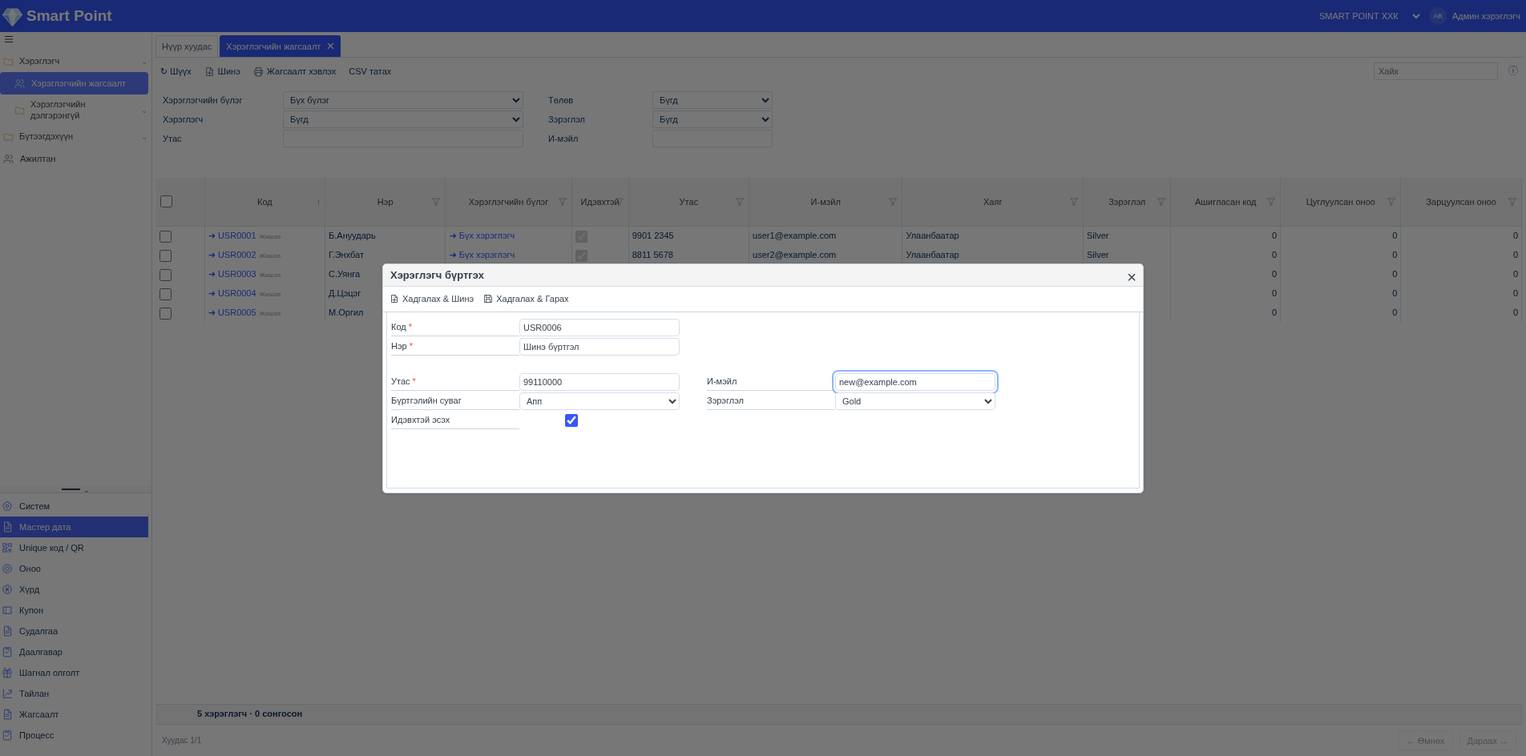
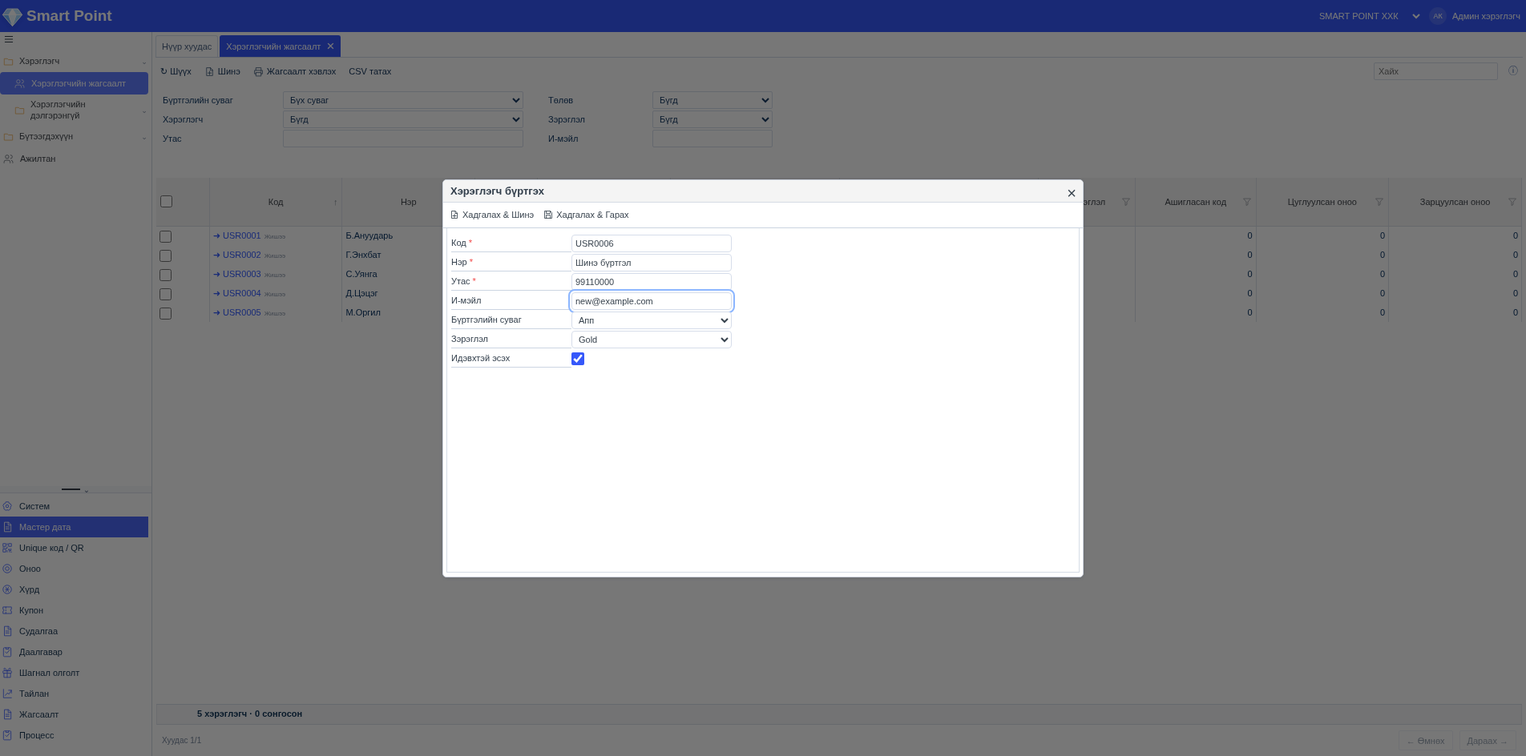
Align user registration fields and remove groups from user list

diff --git a/assets/user-grid.js b/assets/user-grid.js
@@ -1,10 +1,10 @@
 'use strict';
 let userGridPage=1,userGridSort='code',userGridAscending=true;const selectedUserPhones=new Set();
 function userGridRecords(){return db.users.map((u,i)=>{const meta=db.userProfiles?.[u[1]]||{},code=meta.code||'USR'+String(i+1).padStart(4,'0'),transactions=db.transactions.filter(t=>t.userPhone===u[1]||(t.code&&db.codes.some(c=>c.code===t.code&&c.userPhone===u[1])));return {...meta,code,name:u[0],phone:u[1],group:meta.group||'Бүх хэрэглэгч',channel:meta.channel||'Заагаагүй',level:meta.level||'Silver',active:meta.active!==false,email:meta.email??'user'+(i+1)+'@example.com',address:meta.address??'Улаанбаатар',isSample:meta.isSample!==false,used:db.codes.filter(c=>c.used&&c.userPhone===u[1]).length,earned:transactions.filter(t=>t.amount>0).reduce((n,t)=>n+t.amount,0),spent:Math.max(0,-transactions.filter(t=>t.amount<0).reduce((n,t)=>n+t.amount,0))}})}
-function filteredGridUsers(){const term=$('userGridSearch').value.toLowerCase(),group=$('userGridGroup').value,user=$('userGridPerson').value,level=$('userGridLevel').value,state=$('userGridState').value,phone=$('userGridPhone').value.trim(),email=$('userGridEmail').value.trim().toLowerCase();return userGridRecords().filter(u=>(u.code+' '+u.name+' '+u.phone+' '+u.email+' '+u.address).toLowerCase().includes(term)&&(!phone||u.phone.replace(/\s/g,'').includes(phone.replace(/\s/g,'')))&&(!email||u.email.toLowerCase().includes(email))&&(!group||u.group===group)&&(!user||u.phone===user)&&(!level||u.level===level)&&(!state||(state==='active'?u.active:!u.active))).sort((a,b)=>{const x=a[userGridSort],y=b[userGridSort],value=typeof x==='number'?x-y:String(x).localeCompare(String(y),'mn');return userGridAscending?value:-value})}
-function users(){const records=userGridRecords();return `<section id="userGridWorkspace"><div class="user-grid-toolbar"><button id="refreshUserGrid">↻ Шүүх</button><button id="newGridUser">${lineIcon('filePlus')} Шинэ</button><button id="printUserGrid">${lineIcon('printer')} Жагсаалт хэвлэх</button><button id="exportUserGrid">CSV татах</button><input id="userGridSearch" aria-label="Хэрэглэгч хайх" placeholder="Хайх"><button id="userGridInfo" aria-label="Жагсаалтын мэдээлэл">ⓘ</button></div><div class="user-grid-filters"><label>Хэрэглэгчийн бүлэг<select id="userGridGroup"><option value="">Бүх бүлэг</option>${[...new Set(records.map(u=>u.group))].map(g=>`<option>${esc(g)}</option>`).join('')}</select></label><label>Төлөв<select id="userGridState"><option value="">Бүгд</option><option value="active">Идэвхтэй</option><option value="inactive">Идэвхгүй</option></select></label><label>Хэрэглэгч<select id="userGridPerson"><option value="">Бүгд</option>${records.map(u=>`<option value="${esc(u.phone)}">${esc(u.code)} · ${esc(u.name)}</option>`).join('')}</select></label><label>Зэрэглэл<select id="userGridLevel"><option value="">Бүгд</option><option>Bronze</option><option>Silver</option><option>Gold</option></select></label><label>Утас<input id="userGridPhone" aria-label="Утсаар шүүх"></label><label>И-мэйл<input id="userGridEmail" aria-label="И-мэйлээр шүүх"></label></div><div id="userGridRows" class="user-dense-grid"></div><div id="userGridCount" class="user-grid-count"></div><div id="userGridPager" class="log-pager"></div><p class="log-note">Анхны профайлын и-мэйл/хаяг нь жишээ мэдээлэл. Орлого-зарлага нь бүртгэлтэй гүйлгээний нийлбэр; бодит wallet үлдэгдэл биш. Мессеж/и-мэйл илгээхгүй.</p><div id="userGridPrint"></div></section>`}
-function renderUserGrid(){const rows=filteredGridUsers();userGridPage=Math.min(userGridPage,Math.max(1,Math.ceil(rows.length/25)));const headers=[['code','Код'],['name','Нэр'],['group','Хэрэглэгчийн бүлэг'],['active','Идэвхтэй'],['phone','Утас'],['email','И-мэйл'],['address','Хаяг'],['level','Зэрэглэл'],['used','Ашигласан код'],['earned','Цуглуулсан оноо'],['spent','Зарцуулсан оноо']];$('userGridRows').innerHTML='<table><thead><tr><th><input type="checkbox" id="userGridAll" aria-label="Бүх шүүсэн хэрэглэгчийг сонгох"></th>'+headers.map(([key,title])=>`<th><button data-user-sort="${key}">${title} <span>${userGridSort===key?(userGridAscending?'↑':'↓'):lineIcon('filter')}</span></button></th>`).join('')+'</tr></thead><tbody>'+rows.slice((userGridPage-1)*25,userGridPage*25).map((u,i)=>`<tr class="${selectedUserPhones.has(u.phone)?'selected-user-row':''}"><td><input type="checkbox" data-user-select="${esc(u.phone)}" aria-label="${esc(u.name)} сонгох" ${selectedUserPhones.has(u.phone)?'checked':''}></td><td><button class="user-code-link" data-user-detail="${esc(u.phone)}">➜ ${esc(u.code)}</button>${u.isSample?'<small class="sample-tag">Жишээ</small>':''}</td><td>${esc(u.name)}</td><td><button class="user-group-link" data-user-group="${esc(u.group)}">➜ ${esc(u.group)}</button></td><td><input type="checkbox" disabled aria-label="Идэвхтэй" ${u.active?'checked':''}></td><td>${esc(u.phone)}</td><td title="${esc(u.email)}">${esc(u.email)}</td><td title="${esc(u.address)}">${esc(u.address)}</td><td>${esc(u.level)}</td><td class="numeric">${u.used}</td><td class="numeric">${fmt(u.earned)}</td><td class="numeric">${fmt(u.spent)}</td></tr>`).join('')+(rows.length?'':'<tr><td colspan="12" class="empty">Хэрэглэгч олдсонгүй</td></tr>')+'</tbody></table>';$('userGridCount').textContent=rows.length+' хэрэглэгч · '+rows.filter(u=>selectedUserPhones.has(u.phone)).length+' сонгосон';$('userGridPager').innerHTML=`<span>Хуудас ${userGridPage}/${Math.max(1,Math.ceil(rows.length/25))}</span><button id="userGridPrev" ${userGridPage===1?'disabled':''}>← Өмнөх</button><button id="userGridNext" ${userGridPage*25>=rows.length?'disabled':''}>Дараах →</button>`;$('userGridPrev').onclick=()=>{userGridPage--;renderUserGrid()};$('userGridNext').onclick=()=>{userGridPage++;renderUserGrid()};document.querySelectorAll('[data-user-sort]').forEach(b=>b.onclick=()=>{userGridAscending=userGridSort===b.dataset.userSort?!userGridAscending:true;userGridSort=b.dataset.userSort;renderUserGrid()});document.querySelectorAll('[data-user-select]').forEach(input=>input.onchange=()=>{input.checked?selectedUserPhones.add(input.dataset.userSelect):selectedUserPhones.delete(input.dataset.userSelect);renderUserGrid()});$('userGridAll').checked=!!rows.length&&rows.every(u=>selectedUserPhones.has(u.phone));$('userGridAll').indeterminate=rows.some(u=>selectedUserPhones.has(u.phone))&&!rows.every(u=>selectedUserPhones.has(u.phone));$('userGridAll').onchange=e=>{rows.forEach(u=>e.target.checked?selectedUserPhones.add(u.phone):selectedUserPhones.delete(u.phone));renderUserGrid()};document.querySelectorAll('[data-user-group]').forEach(button=>button.onclick=()=>{$('userGridGroup').value=button.dataset.userGroup;renderUserGrid()});document.querySelectorAll('[data-user-detail]').forEach(b=>b.onclick=()=>openGridUser(b.dataset.userDetail))}
-function openGridUser(phone){const u=userGridRecords().find(u=>u.phone===phone),entries=db.transactions.filter(t=>t.userPhone===phone||(t.code&&db.codes.some(c=>c.code===t.code&&c.userPhone===phone)));modal('Хэрэглэгчийн мэдээлэл',`<dl class="detail-specs">${[['Код',u.code],['Нэр',u.name],['Бүлэг',u.group],['Утас',u.phone],['И-мэйл',u.email],['Бүртгэлийн суваг',u.channel],['Хаяг',u.address],['Зэрэглэл',u.level],['Төлөв',u.active?'Идэвхтэй':'Идэвхгүй'],['Цуглуулсан оноо',fmt(u.earned)],['Зарцуулсан оноо',fmt(u.spent)]].map(([k,v])=>`<div><dt>${k}</dt><dd>${esc(v)}</dd></div>`).join('')}</dl><button id="editGridUser">Мэдээлэл засах</button><h3 class="form-section-title">Сүүлийн онооны үйлдлүүд</h3>${table(['Огноо','Үйлдэл','Оноо'],entries.slice(0,15).map(t=>tr([esc(t.date),esc(t.title),fmt(t.amount)])))}`);$('editGridUser').onclick=()=>{$('dialog').close();openGridUserForm(u)}}
+function filteredGridUsers(){const term=$('userGridSearch').value.toLowerCase(),channel=$('userGridChannel').value,user=$('userGridPerson').value,level=$('userGridLevel').value,state=$('userGridState').value,phone=$('userGridPhone').value.trim(),email=$('userGridEmail').value.trim().toLowerCase();return userGridRecords().filter(u=>(u.code+' '+u.name+' '+u.phone+' '+u.email+' '+u.address).toLowerCase().includes(term)&&(!phone||u.phone.replace(/\s/g,'').includes(phone.replace(/\s/g,'')))&&(!email||u.email.toLowerCase().includes(email))&&(!channel||u.channel===channel)&&(!user||u.phone===user)&&(!level||u.level===level)&&(!state||(state==='active'?u.active:!u.active))).sort((a,b)=>{const x=a[userGridSort],y=b[userGridSort],value=typeof x==='number'?x-y:String(x).localeCompare(String(y),'mn');return userGridAscending?value:-value})}
+function users(){const records=userGridRecords();return `<section id="userGridWorkspace"><div class="user-grid-toolbar"><button id="refreshUserGrid">↻ Шүүх</button><button id="newGridUser">${lineIcon('filePlus')} Шинэ</button><button id="printUserGrid">${lineIcon('printer')} Жагсаалт хэвлэх</button><button id="exportUserGrid">CSV татах</button><input id="userGridSearch" aria-label="Хэрэглэгч хайх" placeholder="Хайх"><button id="userGridInfo" aria-label="Жагсаалтын мэдээлэл">ⓘ</button></div><div class="user-grid-filters"><label>Бүртгэлийн суваг<select id="userGridChannel"><option value="">Бүх суваг</option>${[...new Set(records.map(u=>u.channel))].map(c=>`<option>${esc(c)}</option>`).join('')}</select></label><label>Төлөв<select id="userGridState"><option value="">Бүгд</option><option value="active">Идэвхтэй</option><option value="inactive">Идэвхгүй</option></select></label><label>Хэрэглэгч<select id="userGridPerson"><option value="">Бүгд</option>${records.map(u=>`<option value="${esc(u.phone)}">${esc(u.code)} · ${esc(u.name)}</option>`).join('')}</select></label><label>Зэрэглэл<select id="userGridLevel"><option value="">Бүгд</option><option>Bronze</option><option>Silver</option><option>Gold</option></select></label><label>Утас<input id="userGridPhone" aria-label="Утсаар шүүх"></label><label>И-мэйл<input id="userGridEmail" aria-label="И-мэйлээр шүүх"></label></div><div id="userGridRows" class="user-dense-grid"></div><div id="userGridCount" class="user-grid-count"></div><div id="userGridPager" class="log-pager"></div><p class="log-note">Анхны профайлын и-мэйл/хаяг нь жишээ мэдээлэл. Орлого-зарлага нь бүртгэлтэй гүйлгээний нийлбэр; бодит wallet үлдэгдэл биш. Мессеж/и-мэйл илгээхгүй.</p><div id="userGridPrint"></div></section>`}
+function renderUserGrid(){const rows=filteredGridUsers();userGridPage=Math.min(userGridPage,Math.max(1,Math.ceil(rows.length/25)));const headers=[['code','Код'],['name','Нэр'],['active','Идэвхтэй'],['phone','Утас'],['email','И-мэйл'],['address','Хаяг'],['level','Зэрэглэл'],['used','Ашигласан код'],['earned','Цуглуулсан оноо'],['spent','Зарцуулсан оноо']];$('userGridRows').innerHTML='<table><thead><tr><th><input type="checkbox" id="userGridAll" aria-label="Бүх шүүсэн хэрэглэгчийг сонгох"></th>'+headers.map(([key,title])=>`<th><button data-user-sort="${key}">${title} <span>${userGridSort===key?(userGridAscending?'↑':'↓'):lineIcon('filter')}</span></button></th>`).join('')+'</tr></thead><tbody>'+rows.slice((userGridPage-1)*25,userGridPage*25).map((u,i)=>`<tr class="${selectedUserPhones.has(u.phone)?'selected-user-row':''}"><td><input type="checkbox" data-user-select="${esc(u.phone)}" aria-label="${esc(u.name)} сонгох" ${selectedUserPhones.has(u.phone)?'checked':''}></td><td><button class="user-code-link" data-user-detail="${esc(u.phone)}">➜ ${esc(u.code)}</button>${u.isSample?'<small class="sample-tag">Жишээ</small>':''}</td><td>${esc(u.name)}</td><td><input type="checkbox" disabled aria-label="Идэвхтэй" ${u.active?'checked':''}></td><td>${esc(u.phone)}</td><td title="${esc(u.email)}">${esc(u.email)}</td><td title="${esc(u.address)}">${esc(u.address)}</td><td>${esc(u.level)}</td><td class="numeric">${u.used}</td><td class="numeric">${fmt(u.earned)}</td><td class="numeric">${fmt(u.spent)}</td></tr>`).join('')+(rows.length?'':'<tr><td colspan="11" class="empty">Хэрэглэгч олдсонгүй</td></tr>')+'</tbody></table>';$('userGridCount').textContent=rows.length+' хэрэглэгч · '+rows.filter(u=>selectedUserPhones.has(u.phone)).length+' сонгосон';$('userGridPager').innerHTML=`<span>Хуудас ${userGridPage}/${Math.max(1,Math.ceil(rows.length/25))}</span><button id="userGridPrev" ${userGridPage===1?'disabled':''}>← Өмнөх</button><button id="userGridNext" ${userGridPage*25>=rows.length?'disabled':''}>Дараах →</button>`;$('userGridPrev').onclick=()=>{userGridPage--;renderUserGrid()};$('userGridNext').onclick=()=>{userGridPage++;renderUserGrid()};document.querySelectorAll('[data-user-sort]').forEach(b=>b.onclick=()=>{userGridAscending=userGridSort===b.dataset.userSort?!userGridAscending:true;userGridSort=b.dataset.userSort;renderUserGrid()});document.querySelectorAll('[data-user-select]').forEach(input=>input.onchange=()=>{input.checked?selectedUserPhones.add(input.dataset.userSelect):selectedUserPhones.delete(input.dataset.userSelect);renderUserGrid()});$('userGridAll').checked=!!rows.length&&rows.every(u=>selectedUserPhones.has(u.phone));$('userGridAll').indeterminate=rows.some(u=>selectedUserPhones.has(u.phone))&&!rows.every(u=>selectedUserPhones.has(u.phone));$('userGridAll').onchange=e=>{rows.forEach(u=>e.target.checked?selectedUserPhones.add(u.phone):selectedUserPhones.delete(u.phone));renderUserGrid()};document.querySelectorAll('[data-user-detail]').forEach(b=>b.onclick=()=>openGridUser(b.dataset.userDetail))}
+function openGridUser(phone){const u=userGridRecords().find(u=>u.phone===phone),entries=db.transactions.filter(t=>t.userPhone===phone||(t.code&&db.codes.some(c=>c.code===t.code&&c.userPhone===phone)));modal('Хэрэглэгчийн мэдээлэл',`<dl class="detail-specs">${[['Код',u.code],['Нэр',u.name],['Утас',u.phone],['И-мэйл',u.email],['Бүртгэлийн суваг',u.channel],['Хаяг',u.address],['Зэрэглэл',u.level],['Төлөв',u.active?'Идэвхтэй':'Идэвхгүй'],['Цуглуулсан оноо',fmt(u.earned)],['Зарцуулсан оноо',fmt(u.spent)]].map(([k,v])=>`<div><dt>${k}</dt><dd>${esc(v)}</dd></div>`).join('')}</dl><button id="editGridUser">Мэдээлэл засах</button><h3 class="form-section-title">Сүүлийн онооны үйлдлүүд</h3>${table(['Огноо','Үйлдэл','Оноо'],entries.slice(0,15).map(t=>tr([esc(t.date),esc(t.title),fmt(t.amount)])))}`);$('editGridUser').onclick=()=>{$('dialog').close();openGridUserForm(u)}}
 function openGridUserForm(existing=null){
 let next=1;const records=userGridRecords();while(records.some(u=>u.code==='USR'+String(next).padStart(4,'0')))next++;
 const u=existing||{code:'USR'+String(next).padStart(4,'0'),name:'',phone:'',level:'Bronze',active:true,email:'',channel:'Админ'};
@@ -14,5 +14,5 @@ $('dialog').classList.add('user-register-dialog');if(!$('dialog').dataset.userRe
 $('gridUserForm').onsubmit=e=>{e.preventDefault();const d=new FormData(e.target),value={...(existing||{}),...Object.fromEntries(['code','name','phone','email','channel','level'].map(k=>[k,String(d.get(k)||'').trim()]))};value.active=d.has('active');value.isSample=false;if(existing)value.phone=existing.phone;const phoneKey=s=>s.replace(/[\s-]/g,'');if(!value.code||!value.name||!value.phone){$('gridUserError').textContent='Код, нэр, утсаа оруулна уу.';return}if(userGridRecords().some(r=>r.phone!==existing?.phone&&(r.code.toLowerCase()===value.code.toLowerCase()||phoneKey(r.phone)===phoneKey(value.phone)))){$('gridUserError').textContent='Код эсвэл утас давхардаж байна.';return}const oldUsers=structuredClone(db.users),oldProfiles=db.userProfiles,oldAudit=db.auditEntries;const index=existing?db.users.findIndex(u=>u[1]===existing.phone):-1;if(index>=0)db.users[index]=[value.name,existing.phone];else db.users.push([value.name,value.phone]);db.userProfiles={...(db.userProfiles||{}),[value.phone]:value};db.auditEntries=[makeAuditEntry('users','Эцсийн хэрэглэгч',value.code,value.name,existing?'update':'create',diffLogFields(existing,value,['code','name','phone','email','channel','level','active'])),...(db.auditEntries||[])];if(!save()){db.users=oldUsers;db.userProfiles=oldProfiles;db.auditEntries=oldAudit;$('gridUserError').textContent='Хадгалах боломжгүй. Өөрчлөлтийг буцаалаа.';return}const saveNew=e.submitter?.value==='new';$('dialog').close();render();toast('Хэрэглэгчийн мэдээлэл хадгалагдлаа');if(saveNew)openGridUserForm()};
 }
 function userGridExportRows(){const records=filteredGridUsers(),selected=records.filter(u=>selectedUserPhones.has(u.phone));return selected.length?selected:records}
-function bindUserGrid(){if(!$('userGridWorkspace'))return;renderUserGrid();for(const id of ['userGridSearch','userGridGroup','userGridPerson','userGridLevel','userGridState','userGridPhone','userGridEmail'])$(id).addEventListener(['userGridSearch','userGridPhone','userGridEmail'].includes(id)?'input':'change',()=>{userGridPage=1;renderUserGrid()});$('userGridInfo').onclick=()=>modal('Жагсаалтын мэдээлэл','<p>'+esc($('userGridWorkspace').querySelector('.log-note').textContent)+'</p>');$('refreshUserGrid').onclick=renderUserGrid;$('newGridUser').onclick=()=>openGridUserForm();$('printUserGrid').onclick=()=>window.print();$('exportUserGrid').onclick=()=>download('smart-point-users.csv',[['Код','Нэр','Бүлэг','Төлөв','Утас','И-мэйл','Хаяг','Зэрэглэл','Ашигласан код','Цуглуулсан','Зарцуулсан'],...userGridExportRows().map(u=>[u.code,u.name,u.group,u.active?'Идэвхтэй':'Идэвхгүй',u.phone,u.email,u.address,u.level,u.used,u.earned,u.spent])])}
-window.addEventListener('beforeprint',()=>{if(!$('userGridPrint'))return;const rows=userGridExportRows();$('userGridPrint').innerHTML='<h2>Хэрэглэгчийн жагсаалт · '+esc(currentOrganization().name)+'</h2>'+table(['Код','Нэр','Утас','И-мэйл','Бүлэг','Зэрэглэл','Цуглуулсан','Зарцуулсан'],rows.map(u=>tr([esc(u.code),esc(u.name),esc(u.phone),esc(u.email),esc(u.group),esc(u.level),fmt(u.earned),fmt(u.spent)])))});
+function bindUserGrid(){if(!$('userGridWorkspace'))return;renderUserGrid();for(const id of ['userGridSearch','userGridChannel','userGridPerson','userGridLevel','userGridState','userGridPhone','userGridEmail'])$(id).addEventListener(['userGridSearch','userGridPhone','userGridEmail'].includes(id)?'input':'change',()=>{userGridPage=1;renderUserGrid()});$('userGridInfo').onclick=()=>modal('Жагсаалтын мэдээлэл','<p>'+esc($('userGridWorkspace').querySelector('.log-note').textContent)+'</p>');$('refreshUserGrid').onclick=renderUserGrid;$('newGridUser').onclick=()=>openGridUserForm();$('printUserGrid').onclick=()=>window.print();$('exportUserGrid').onclick=()=>download('smart-point-users.csv',[['Код','Нэр','Төлөв','Утас','И-мэйл','Хаяг','Зэрэглэл','Ашигласан код','Цуглуулсан','Зарцуулсан'],...userGridExportRows().map(u=>[u.code,u.name,u.active?'Идэвхтэй':'Идэвхгүй',u.phone,u.email,u.address,u.level,u.used,u.earned,u.spent])])}
+window.addEventListener('beforeprint',()=>{if(!$('userGridPrint'))return;const rows=userGridExportRows();$('userGridPrint').innerHTML='<h2>Хэрэглэгчийн жагсаалт · '+esc(currentOrganization().name)+'</h2>'+table(['Код','Нэр','Утас','И-мэйл','Зэрэглэл','Цуглуулсан','Зарцуулсан'],rows.map(u=>tr([esc(u.code),esc(u.name),esc(u.phone),esc(u.email),esc(u.level),fmt(u.earned),fmt(u.spent)])))});

diff --git a/index.html b/index.html
@@ -1,1 +1,1 @@
-<!doctype html><html lang="mn"><head><meta charset="utf-8"><meta name="viewport" content="width=device-width,initial-scale=1"><title>Smart Point Admin • Удирдлагын систем</title><link rel="icon" type="image/svg+xml" href="assets/point-gem.svg"><link rel="stylesheet" href="assets/style.css?v=20261028-user-register"><link rel="stylesheet" href="assets/workspace-shell.css?v=20261028-user-register"><link rel="stylesheet" href="assets/smart-standard.css?v=20261028-user-register"></head><body><header><button id="mobileMenu" aria-label="Цэс нээх" onclick="document.getElementById('menu').click()">☰</button><strong class="brand-logo"><img src="assets/point-gem.svg" alt="Point Gem" width="29" height="29"><span>Smart Point</span></strong><span class="header-right"><select id="organizationPicker" aria-label="Байгууллага солих"></select> <span class="avatar">АК</span> Админ хэрэглэгч</span></header><aside id="sidebar"><div class="sidebar-topbar"><button id="menu" aria-label="Цэс">☰</button></div><p class="muted">УДИРДЛАГА</p><nav id="nav"></nav><div class="sidebar-bottom">Smart Point v0.1<br><small>Туршилтын орчин • Local demo</small></div></aside><main><div class="title-row"><div><h1 id="title"></h1><p id="subtitle"></p></div></div><div id="view"></div><footer>Танилцуулгын хувилбар · Өгөгдөл зөвхөн энэ браузерт хадгалагдана. Бодит мөнгө, үйлдвэрлэлийн QR болон шагналтай холбогдоогүй.</footer></main><dialog id="dialog"><h2 id="dialogTitle"></h2><div id="dialogBody"></div><button id="close">Хаах</button></dialog><div id="toast" role="status"></div><script src="assets/vendor/qrcode.js"></script><script src="assets/codes.js?v=20261028-user-register"></script><script src="assets/points.js?v=20261028-user-register"></script><script src="assets/wheels.js?v=20261028-user-register"></script><script src="assets/coupons.js?v=20261028-user-register"></script><script src="assets/engagement.js?v=20261028-user-register"></script><script src="assets/admin-settings.js?v=20261028-user-register"></script><script src="assets/workspace-shell.js?v=20261028-user-register"></script><script src="assets/logs.js?v=20261028-user-register"></script><script src="assets/user-grid.js?v=20261028-user-register"></script><script src="assets/app.js?v=20261028-user-register"></script></body></html>
+<!doctype html><html lang="mn"><head><meta charset="utf-8"><meta name="viewport" content="width=device-width,initial-scale=1"><title>Smart Point Admin • Удирдлагын систем</title><link rel="icon" type="image/svg+xml" href="assets/point-gem.svg"><link rel="stylesheet" href="assets/style.css?v=20261028-user-aligned"><link rel="stylesheet" href="assets/workspace-shell.css?v=20261028-user-aligned"><link rel="stylesheet" href="assets/smart-standard.css?v=20261028-user-aligned"></head><body><header><button id="mobileMenu" aria-label="Цэс нээх" onclick="document.getElementById('menu').click()">☰</button><strong class="brand-logo"><img src="assets/point-gem.svg" alt="Point Gem" width="29" height="29"><span>Smart Point</span></strong><span class="header-right"><select id="organizationPicker" aria-label="Байгууллага солих"></select> <span class="avatar">АК</span> Админ хэрэглэгч</span></header><aside id="sidebar"><div class="sidebar-topbar"><button id="menu" aria-label="Цэс">☰</button></div><p class="muted">УДИРДЛАГА</p><nav id="nav"></nav><div class="sidebar-bottom">Smart Point v0.1<br><small>Туршилтын орчин • Local demo</small></div></aside><main><div class="title-row"><div><h1 id="title"></h1><p id="subtitle"></p></div></div><div id="view"></div><footer>Танилцуулгын хувилбар · Өгөгдөл зөвхөн энэ браузерт хадгалагдана. Бодит мөнгө, үйлдвэрлэлийн QR болон шагналтай холбогдоогүй.</footer></main><dialog id="dialog"><h2 id="dialogTitle"></h2><div id="dialogBody"></div><button id="close">Хаах</button></dialog><div id="toast" role="status"></div><script src="assets/vendor/qrcode.js"></script><script src="assets/codes.js?v=20261028-user-aligned"></script><script src="assets/points.js?v=20261028-user-aligned"></script><script src="assets/wheels.js?v=20261028-user-aligned"></script><script src="assets/coupons.js?v=20261028-user-aligned"></script><script src="assets/engagement.js?v=20261028-user-aligned"></script><script src="assets/admin-settings.js?v=20261028-user-aligned"></script><script src="assets/workspace-shell.js?v=20261028-user-aligned"></script><script src="assets/logs.js?v=20261028-user-aligned"></script><script src="assets/user-grid.js?v=20261028-user-aligned"></script><script src="assets/app.js?v=20261028-user-aligned"></script></body></html>

diff --git a/assets/smart-standard.css b/assets/smart-standard.css
@@ -14,3 +14,8 @@
 @media(max-width:800px){.user-register-contact{grid-template-columns:1fr;gap:3px}.user-register-fields label{grid-template-columns:140px minmax(0,1fr)}.user-register-fields input:not([type=checkbox]),.user-register-fields select{width:100%}.user-register-fields{min-height:0}.user-register-toolbar{gap:10px}}
 
 #dialog.user-register-dialog .user-register-toolbar button{margin:0}#dialog.user-register-dialog .user-register-toolbar .primary{background:transparent!important;color:#38434e!important;border:0!important}
+
+/* All registration controls share one left edge, matching the supplied user form. */
+#dialog.user-register-dialog{width:800px}.user-register-contact{display:block;margin-top:0}.user-register-fields{min-height:430px}.user-register-fields label{grid-template-columns:150px 200px;min-height:24px}.user-register-fields .user-register-active input{margin-left:0}.user-dense-grid th:nth-child(4){width:52px}.user-dense-grid th:nth-child(5){width:110px}.user-dense-grid th:nth-child(6){width:140px}.user-dense-grid th:nth-child(7){width:165px}.user-dense-grid th:nth-child(8){width:80px}.user-dense-grid th:nth-child(9){width:100px}.user-dense-grid th:nth-child(10),.user-dense-grid th:nth-child(11){width:110px}
+@media(max-width:800px){.user-register-fields{min-height:280px}.user-register-fields label{grid-template-columns:145px minmax(0,200px)}}
+.user-register-fields .user-register-active input{min-width:0;padding:0;width:16px;height:16px;justify-self:start}

diff --git a/README.md b/README.md
@@ -198,3 +198,5 @@ Smart Distribution reference-ийн цэнхэр нимгэн толгой, ца
 The user list follows the supplied Smart CRM reference: 40px blue header, 190px split sidebar, 32px workspace tabs, three compact filter rows, a 60px grid header and 24px data rows. The count and pagination stay at the bottom of the viewport; the grid scrolls independently. Phone and email filters operate on existing user data. Mobile navigation retains a header menu button. No stored data or business rules are migrated by this visual update.
 
 User registration uses a tab-free Smart desktop modal with code, name, phone, email, registration channel, level and active state. Save & New opens a cleared form; Save & Close returns to the list. Existing phone references and profile metadata are preserved.
+
+Registration fields now use a single aligned column in the 800px Smart user window. The list, CSV and printed report omit the group column; registration channel replaces the group filter. Legacy group metadata remains stored for compatibility.
